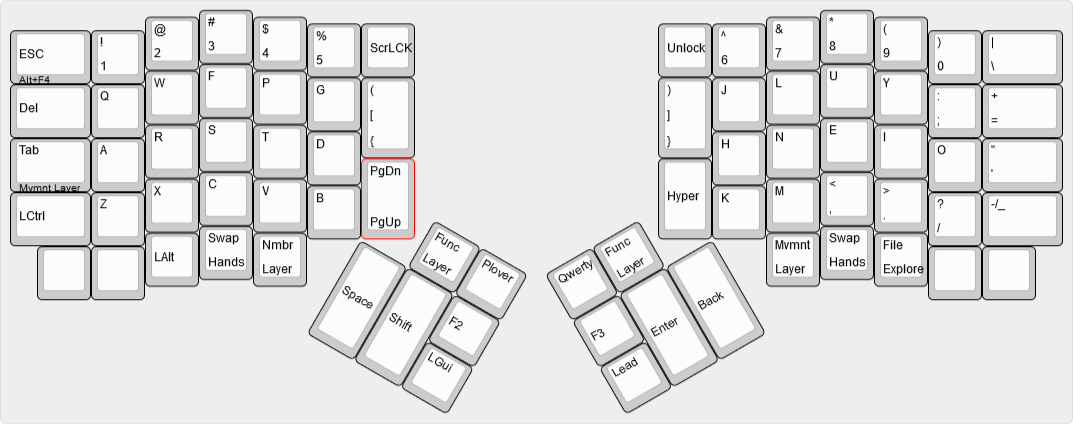
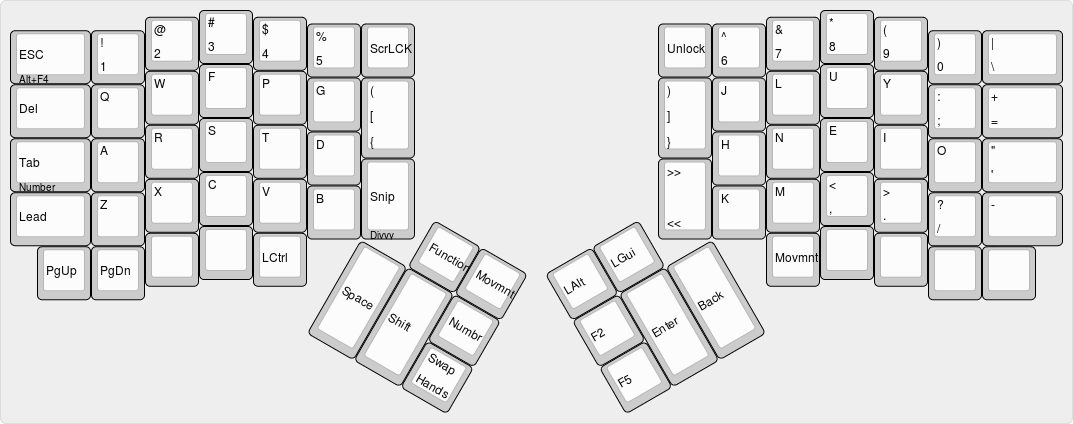
thumb cluster changes, moved ctrl to thumb, moved lead

diff --git a/keymap.c b/keymap.c
@@ -66,16 +66,16 @@ const uint16_t PROGMEM keymaps[][MATRIX_ROWS][MATRIX_COLS] = {
  * |--------+------+------+------+------+------|  [   |           |   ]  |------+------+------+------+------+--------|
  * |Tab/NMBR|   A  |   R  |   S  |   T  |   D  |------|           |------|   H  |   N  |   E  |   I  |   O  |    '   |
  * |--------+------+------+------+------+------| Snip |           |  >>  |------+------+------+------+------+--------| 
- * |  Ctrl  |   Z  |  X   |  C   |   V  |   B  |Divvy |           |  <<  |   K  |   M  |   ,  |   .  |   /  |   -/_  |
+ * |  Lead  |   Z  |  X   |  C   |   V  |   B  |Divvy |           |  <<  |   K  |   M  |   ,  |   .  |   /  |   -/_  |
  * `--------+------+------+------+------+-------------'           `-------------+------+------+------+------+--------'
- *   | PgUp |PgDwn | Alt  |SWPHND| NMBR |                                       | MVMNT|      |      |      | NMBR |
+ *   | PgUp |PgDwn |      |      | LCtrl|                                       | MVMNT|      |      |      |      |
  *   `----------------------------------'                                       `----------------------------------'
  *                                        ,-------------.       ,-------------.
- *                                        | FUNC |      |       |      | FUNC |
+ *                                        | FUNC | MVMNT|       | LAlt | LGui |
  *                                 ,------|------|------|       |------+--------+------.
- *                                 |      |      |  F2  |       |  F5  |        |      |
+ *                                 |      |      | NMBR |       |  F2  |        |      |
  *                                 | Space|Shift |------|       |------| Enter  | BkSp |
- *                                 |      |      | LGui |       | Lead |        |      |
+ *                                 |      |      |SWPHND|       |  F5  |        |      |
  *                                 `--------------------'       `----------------------'
  */
 // If it accepts an argument (i.e, is a function), it doesn't need KC_.
@@ -85,20 +85,20 @@ const uint16_t PROGMEM keymaps[][MATRIX_ROWS][MATRIX_COLS] = {
         TD(CT_ESCF4),       KC_1,      KC_2,     KC_3,      KC_4,       KC_5,        LGUI(KC_L),
         KC_DELT,            KC_Q,      KC_W,     KC_F,      KC_P,       KC_G,        TD(CT_LBP),
         TD(CT_TA),          KC_A,      KC_R,     KC_S,      KC_T,       KC_D,
-        KC_LCTRL,           KC_Z,      KC_X,     KC_C,      KC_V,       KC_B,        TD(CT_WINDOWS),
-        KC_PGUP,            KC_PGDN,   KC_LALT, TT(SWPHND),MO(NMBR),
-                                                                        OSL(FUNC),  KC_NO,
-                                                                                     KC_F2,
-                                                            KC_SPC,     KC_LSHIFT,   KC_LGUI,
+        KC_LEAD,            KC_Z,      KC_X,     KC_C,      KC_V,       KC_B,        TD(CT_WINDOWS),
+        KC_PGUP,            KC_PGDN,   KC_LALT,  KC_NO,     KC_LCTRL,
+                                                                        OSL(FUNC),  TG(MVMNT),
+                                                                                    TG(NMBR),
+                                                            KC_SPC,     KC_LSHIFT,  TG(SWPHND),
         // right hand'
              ALTG(KC_DELT),  KC_6,   KC_7,     KC_8,      KC_9,     KC_0,               KC_BSLS,
              TD(CT_RBP),     KC_J,   KC_L,     KC_U,      KC_Y,     TD(CT_COL),         KC_EQL,
                              KC_H,   KC_N,     KC_E,      KC_I,     KC_O,               KC_QUOT,
              TD(CT_SWITCH),     KC_K,   KC_M,  KC_COMM,   KC_DOT,   KC_SLSH,            TD(CT_UNDER),
-                                     MO(MVMNT),KC_NO ,    KC_NO,    KC_NO,              TG(NMBR),
-             KC_NO,      OSL(FUNC),
-             KC_F5,
-             KC_LEAD,         KC_ENT, KC_BSPC
+                                     MO(MVMNT),KC_NO ,    KC_NO,    KC_NO,              KC_NO,
+             F(F_ALT),      KC_LGUI,
+             KC_F2,
+             KC_F5,         KC_ENT, KC_BSPC
     ),
 
 /* Keymap 1: Arrow layer

diff --git a/NEWS.md b/NEWS.md
@@ -17,6 +17,12 @@ Changes were influenced by one week's worth of logging data.
 * Removed QWERTY layer.
 * Moved PLVR layer to FUNCTION layer (one must hold down the FUNC while pressing the PLVR key since FUNC is OSL).
 * Updated the SWPHNDS layer lighs to be 1 and 3 on.
+* Moved `CTRL` away from pinky to thumb - based on heatmap data usage (`CTRL` is used 3-5%).
+* Added function, movement and number layer keys to thumb cluster for one handed usage.
+* Moved F5 to right handed thumb cluster for easier access - based on heatmap data usage.
+* Moved swap hands layer to thumb cluster - test to see if my data is accurate or if my usage is accidental strokes.
+* Moved `LGUI` to less prime location due to lack of use based on heatmap data.
+* Removed right thumb cluster function layer due to lack of use based on heatmap data.
 
 ## v1.7
 
